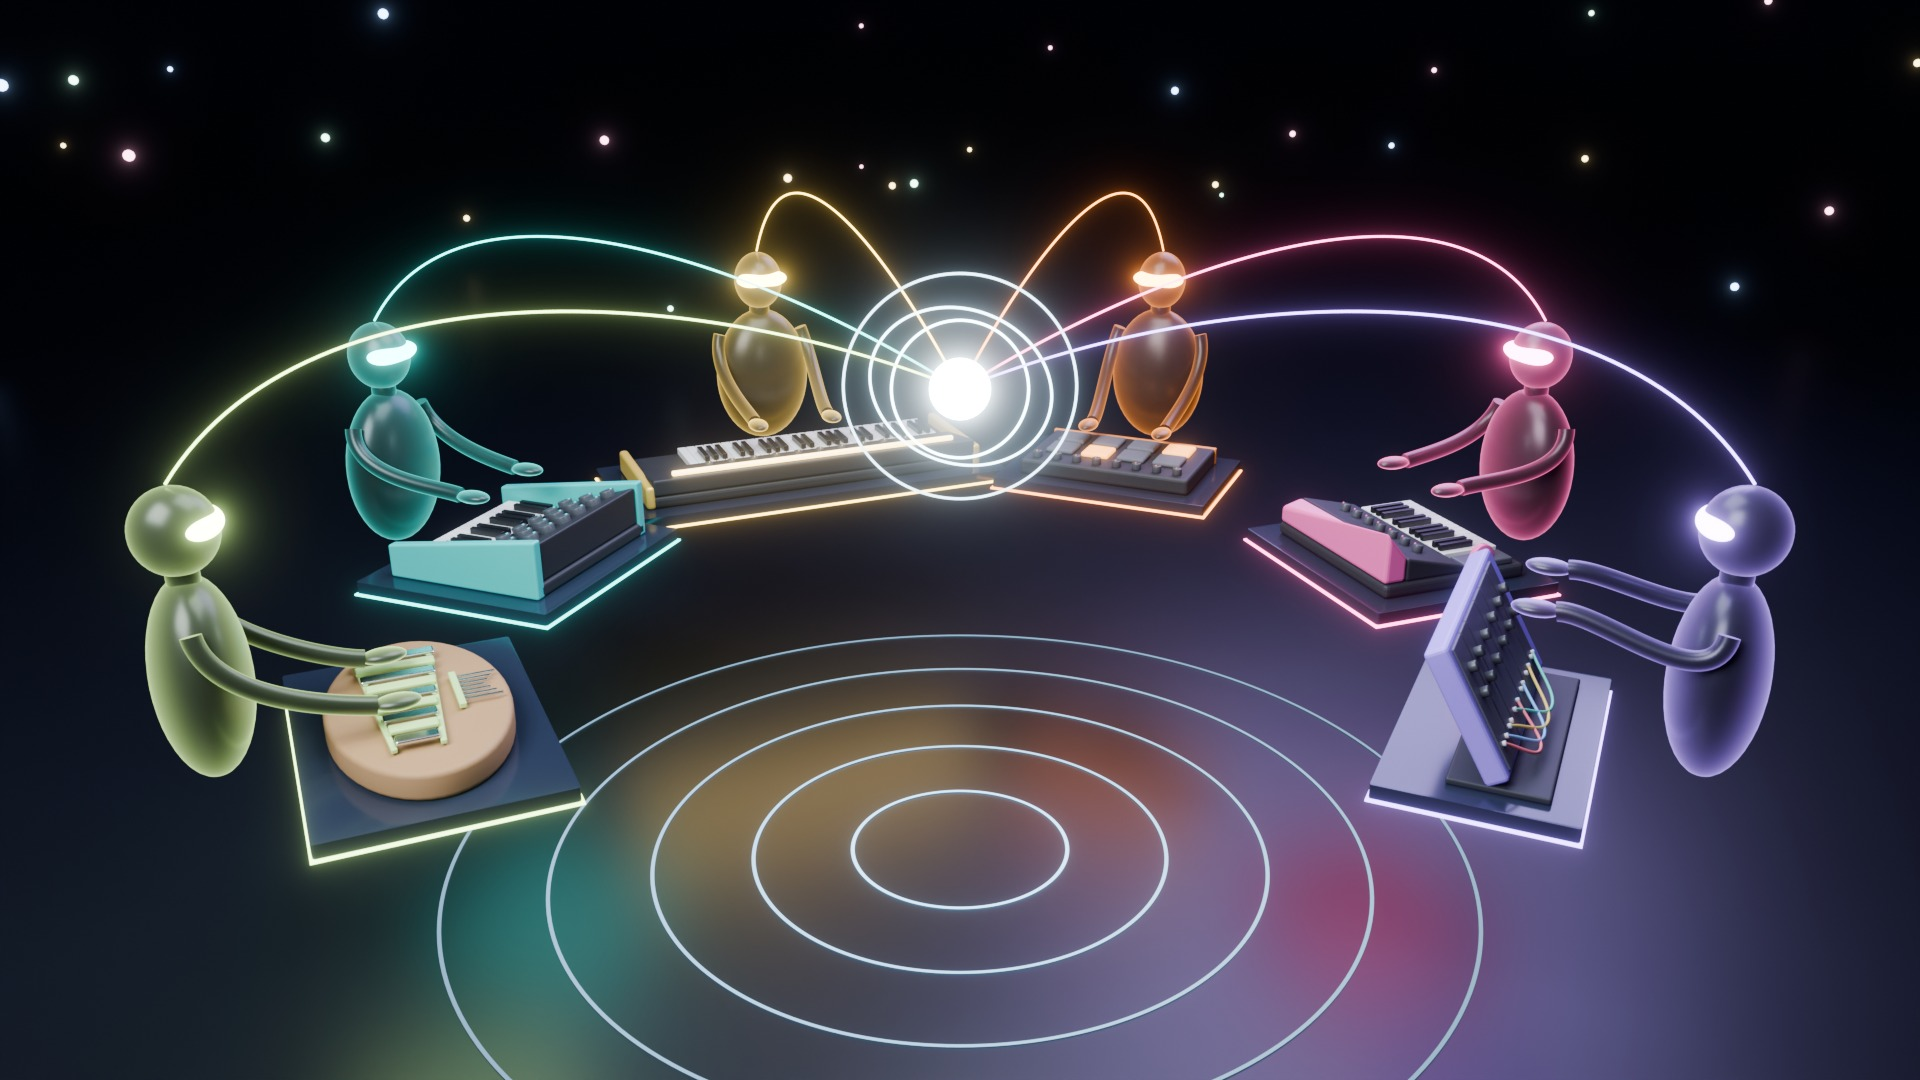
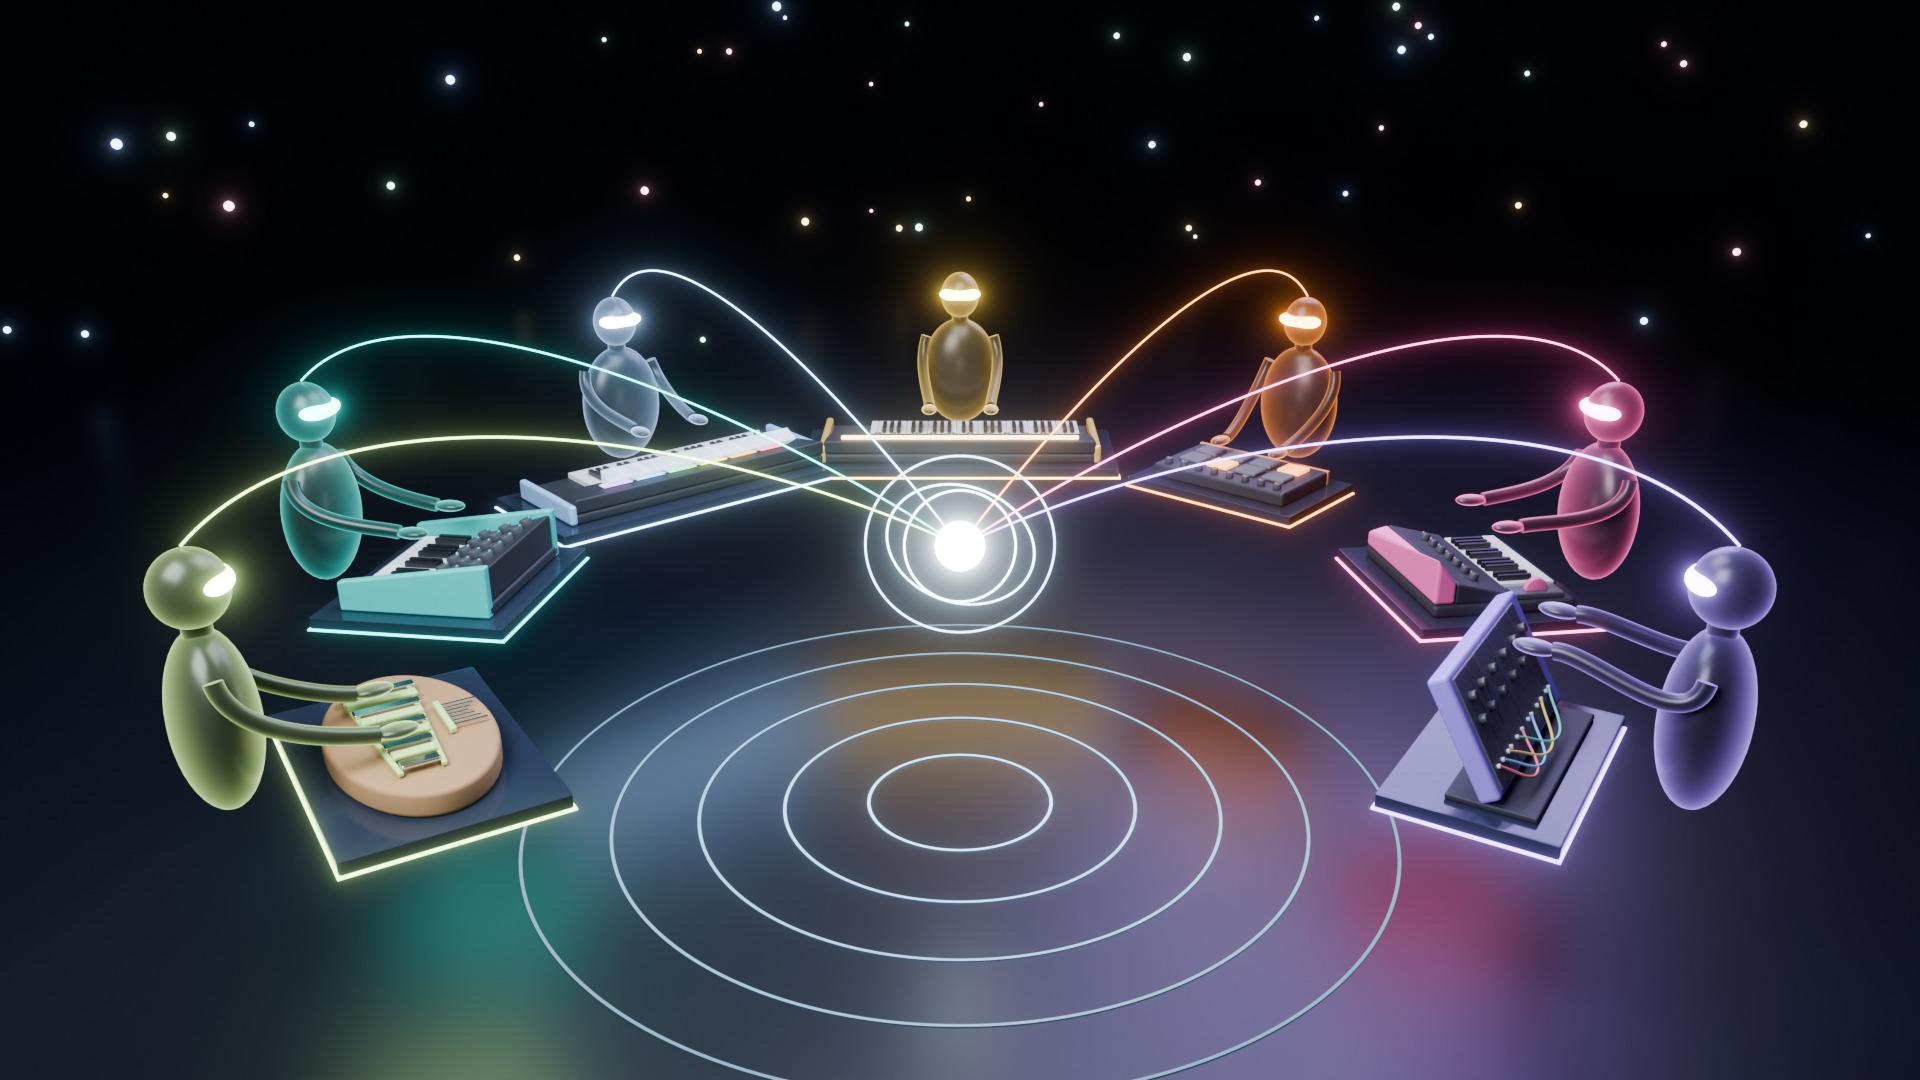
Hero image: all seven instruments, Prism included
make_hero.py seats seven players (Prism between Undertow and Lumen), on a
wider circle (R 1.95) with the clock orb lowered (ORB_Z 1.05) so the middle
player shows above it. The middle player has no link curve, since it would run
down its body. The camera is pulled back (28 mm lens) to keep the end players
in frame, and instruments.blend is loaded from next to the script instead of
Roogna's path. Re-rendered at full size, then re-titled with add_title.py.

diff --git a/assets/instruments/source/make_hero.py b/assets/instruments/source/make_hero.py
@@ -1,10 +1,13 @@
-import bpy, math, sys, random
+# Renders the hero image (docs/images/hero_1920x1080.png), then add_title.py adds the text.
+#   blender -b --python assets/instruments/source/make_hero.py -- [final] <out.png>
+# Without "final": a half-size, low-sample preview.
+import bpy, math, os, sys, random
 from mathutils import Vector
 
 argv = sys.argv[sys.argv.index("--") + 1:] if "--" in sys.argv else []
 PREVIEW = "final" not in argv
 OUT = argv[-1]
-SRC = r"D:\Godot_Projects\AudioSyncMaster\assets\instruments\source\instruments.blend"
+SRC = os.path.join(os.path.dirname(os.path.abspath(__file__)), "instruments.blend")
 
 sc = bpy.data.scenes.new("Hero")
 bpy.context.window.scene = sc
@@ -12,9 +15,10 @@ for s in list(bpy.data.scenes):
     if s != sc:
         bpy.data.scenes.remove(s)
 
-NAMES = ["Driftwood", "Undertow", "Lumen", "Pulsar", "Comet", "Tangle"]
+NAMES = ["Driftwood", "Undertow", "Prism", "Lumen", "Pulsar", "Comet", "Tangle"]
 COL_MAT = {"Pulsar": "Pulsar_Orange", "Undertow": "Undertow_Teal", "Comet": "Comet_Pink",
-           "Lumen": "Lumen_Gold", "Driftwood": "Driftwood_Green", "Tangle": "Tangle_Violet"}
+           "Lumen": "Lumen_Gold", "Driftwood": "Driftwood_Green", "Tangle": "Tangle_Violet",
+           "Prism": "Prism_Blue"}
 
 
 def mat_color(name):
@@ -64,8 +68,10 @@ with bpy.data.libraries.load(SRC, link=False) as (src, dst):
     dst.collections = [n for n in src.collections if n in NAMES]
 colors = {n: mat_color(COL_MAT[n]) for n in NAMES}
 
-R = 1.6
-ANG = [-115, -69, -23, 23, 69, 115]
+R = 1.95
+ORB_Z = 1.05  # the shared clock: low enough that the middle player shows above it
+# Seven seats in an arc facing the camera, the middle one behind the clock orb
+ANG = [-123, -82, -41, 0, 41, 82, 123]
 
 
 def obj(name, mesh_fn, mat, loc=(0, 0, 0), parent=None):
@@ -167,6 +173,8 @@ for n, a in zip(NAMES, ANG):
         sc.collection.objects.link(ao)
         ao.parent = root
         ac.materials.append(bm)
+    if a == 0:
+        continue  # the middle player sits right behind the clock; its link would run down its body
     # link from the player's head to the shared clock
     cu = bpy.data.curves.new(n + "_Link", "CURVE")
     cu.dimensions = "3D"
@@ -177,7 +185,7 @@ for n, a in zip(NAMES, ANG):
     sp.bezier_points.add(1)
     rr = R + 0.5
     hp = Vector((rr * math.sin(phi), rr * math.cos(phi), 1.45))
-    cp = Vector((0, 0, 1.55))
+    cp = Vector((0, 0, ORB_Z))
     p0, p1 = sp.bezier_points
     p0.co = hp + Vector((0, 0, 0.12))
     p0.handle_left = p0.co
@@ -190,10 +198,10 @@ for n, a in zip(NAMES, ANG):
     cu.materials.append(emis(n + "_LinkGlow", col, 7))
 
 # center: the shared clock
-orb = obj("Orb", lambda: bpy.ops.mesh.primitive_uv_sphere_add(radius=0.09, segments=48, ring_count=24), emis("Orb", (0.75, 0.9, 1, 1), 25), (0, 0, 1.55))
+orb = obj("Orb", lambda: bpy.ops.mesh.primitive_uv_sphere_add(radius=0.09, segments=48, ring_count=24), emis("Orb", (0.75, 0.9, 1, 1), 25), (0, 0, ORB_Z))
 smooth(orb)
 for k, (rad, tilt, st) in enumerate([(0.2, 70, 8), (0.27, 110, 6), (0.34, 90, 4)]):
-    t = obj("OrbRing%d" % k, lambda: bpy.ops.mesh.primitive_torus_add(major_radius=rad, minor_radius=0.004, major_segments=128, minor_segments=12), emis("OrbRing%d" % k, (0.6, 0.85, 1, 1), st), (0, 0, 1.55))
+    t = obj("OrbRing%d" % k, lambda: bpy.ops.mesh.primitive_torus_add(major_radius=rad, minor_radius=0.004, major_segments=128, minor_segments=12), emis("OrbRing%d" % k, (0.6, 0.85, 1, 1), st), (0, 0, ORB_Z))
     t.rotation_euler = (math.radians(tilt), math.radians(k * 35), 0)
 for k in range(5):
     rad = 0.35 + k * 0.32
@@ -234,13 +242,13 @@ def light(name, typ, loc, energy, col, size=1.0):
 light("Key", "AREA", (-2.5, -3.5, 4.5), 450, (0.85, 0.9, 1), 3)
 light("Rim", "AREA", (2.5, 4.5, 5.0), 350, (0.55, 0.45, 1), 4)
 light("Top", "AREA", (0, 0, 4.2), 160, (0.8, 0.9, 1), 2.5)
-light("OrbLight", "POINT", (0, 0, 1.55), 60, (0.6, 0.85, 1))
+light("OrbLight", "POINT", (0, 0, ORB_Z), 60, (0.6, 0.85, 1))
 
 cd = bpy.data.cameras.new("Cam")
-cd.lens = 30
+cd.lens = 28
 cam = bpy.data.objects.new("Cam", cd)
 sc.collection.objects.link(cam)
-cam.location = (0.0, -4.5, 2.85)
+cam.location = (0.0, -5.0, 3.0)
 tgt = Vector((0, 0.45, 0.9))
 cam.rotation_euler = (tgt - cam.location).to_track_quat("-Z", "Y").to_euler()
 sc.camera = cam

diff --git a/docs/HANDOFF.md b/docs/HANDOFF.md
@@ -80,7 +80,7 @@ C:\Godot\Godot_v4.7.2-stable_win64_console.exe --headless --path . -s res://test
    - It still has a copied `addons/synthkit`, synced by script. Also move Beacon Field's browser instruments (`web/src/synths.js`, Web Audio rewrites of the original six, without Prism) into SynthKit.
    - Handed to a MusicBeaconXR session on 2026-11-25 with a brief (`D:\SterlingsLab\JamSyncXR\MusicBeaconXR-SynthKit-brief.md`): Godot onto the submodule first, then a proposal for the browser.
    - `D:\SynthKit`: local `master` tracks GitHub `main` and is at `a37098c`. Its 56 factory preset files show as changed, but only in line endings.
-4. **Hero image**: the title (JamSyncXR, SEVEN BUILT-IN SYNTHS) was re-rendered 2026-11-27. The 3D scene still shows six players and instruments (no Prism); re-rendering it needs `make_hero.py` in Blender, then `add_title.py`.
+4. **Hero image**: done 2026-11-27. Re-rendered with all seven instruments (Prism added) and the JamSyncXR title. To redo it: `blender -b --python assets/instruments/source/make_hero.py -- final docs/images/hero_1920x1080.png` (about 3 minutes on the GPU), then `python assets/instruments/source/add_title.py`.
 5. **Website session** (Sterling's Lab site): it asked for app info, which was sent. The app has no public build. The manual's GitHub URL exists, but the user hasn't said to give it to the site yet.
 
 ## Waiting on the user or the headset
@@ -94,7 +94,7 @@ C:\Godot\Godot_v4.7.2-stable_win64_console.exe --headless --path . -s res://test
 - **Saved jams:** new `session.json` files say `"app": "JamSyncXR"`; files saying `"AudioSyncMaster"` still load (`JamRecorder.APP_NAMES`).
 - **APKs:** `build/android/JamSyncXR.apk` (flat), `JamSyncXR-AndroidXR.apk`, `JamSyncXR-Quest.apk`.
 - **App icon:** `assets/icon/` (SVG sources; `tools/make_icon.gd` renders the PNGs and `icon.ico`). It's set as the project icon, the Android launcher and adaptive icons, and the Windows exe icon.
-- Hero image title re-rendered with Pillow 13.0.0, now installed on music-machine (`pip install --user pillow`).
+- Hero image re-rendered with seven players and the new title. Pillow 13.0.0 is now installed on music-machine (`pip install --user pillow`).
 
 ## XR and Android builds (2026-11-26)
 - **Addons:** OpenXR Vendors 5.2.0 and godot-xr-tools 4.5.2 (the latest releases). XR Tools 4.5.2's code was already here; `player_body.gd` keeps this project's fixes, which upstream lacks.
